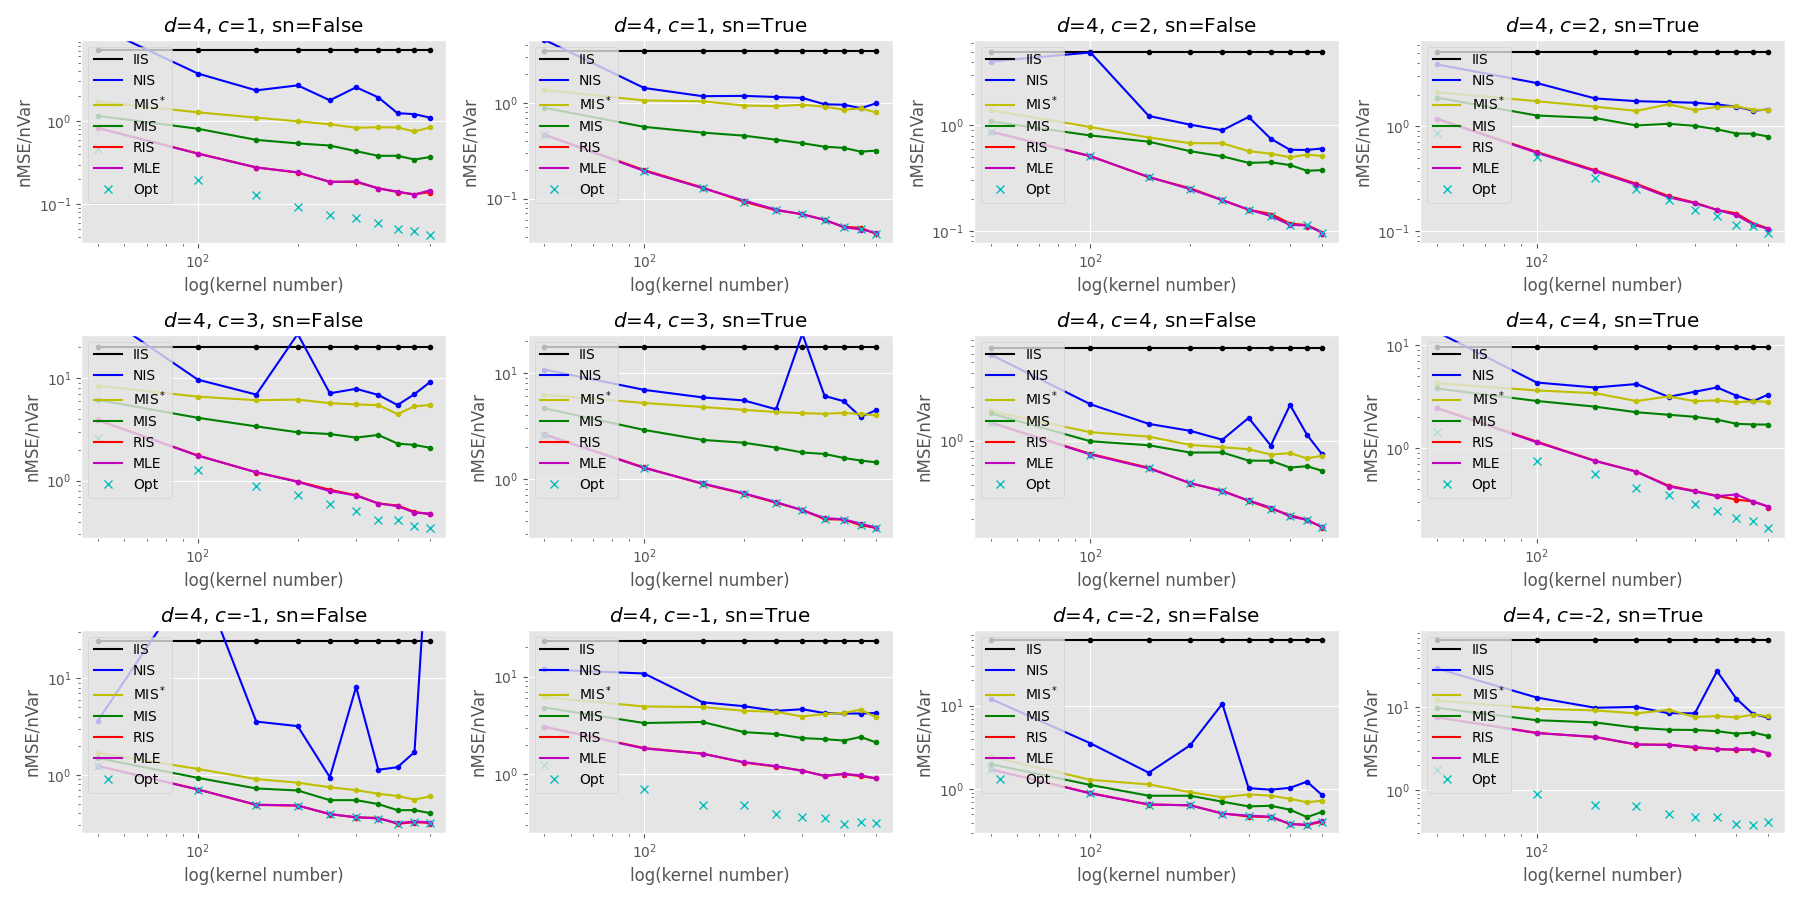
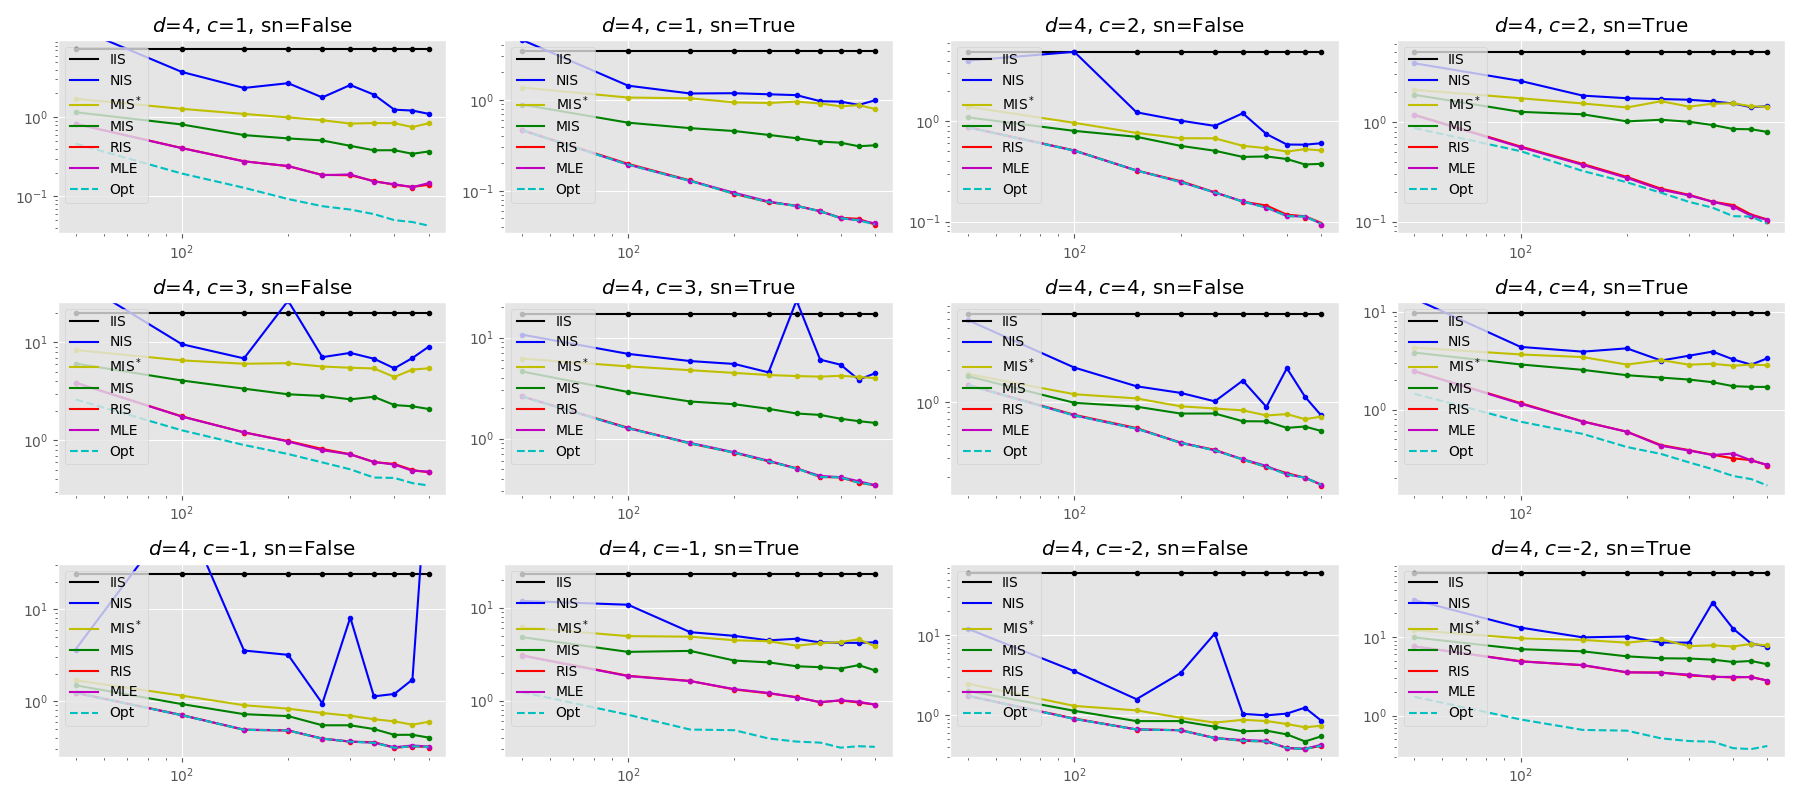
up

Changed region(s): [[0.0, 0.0, 0.9956, 1.0], [0.6533, 0.7812, 0.6844, 0.8438], [0.1244, 0.75, 0.1556, 0.8125]]

diff --git a/niscv_v2/analysis/simulation/kernel_number_D.py b/niscv_v2/analysis/simulation/kernel_number_D.py
@@ -29,21 +29,21 @@ def draw(dim, ax):
             ax[i].loglog(size_kns, nMSE[i, :, j], c=colors[j], label=estimator)
             ax[i].loglog(size_kns, nVar[i, :, j], '.', c=colors[j])
 
-        ax[i].set_xlabel('log(kernel number)')
-        ax[i].set_ylabel('nMSE/nVar')
+        # ax[i].set_xlabel('log(kernel number)')
+        # ax[i].set_ylabel('nMSE/nVar')
         ax[i].set_title('$d$={}, $c$={}, sn={}'.format(dim, setting[0], setting[1]))
 
     groups = np.arange(ax.size).reshape([-1, 2])
     for group in groups:
         optimal = nMSE[group, :, :].min(axis=2).min(axis=0)
         for i in group:
-            ax[i].loglog(size_kns, optimal, 'cx', label='Opt')
+            ax[i].loglog(size_kns, optimal, 'c--', label='Opt')
             ax[i].set_ylim([0.8 * optimal.min(), 1.3 * nMSE[i, :, 0].max()])
 
 
 def main(dim):
     plt.style.use('ggplot')
-    fig, ax = plt.subplots(3, 4, figsize=[18, 9])
+    fig, ax = plt.subplots(3, 4, figsize=[18, 8])
     ax = ax.flatten()
     draw(dim, ax)
     for a in ax:
